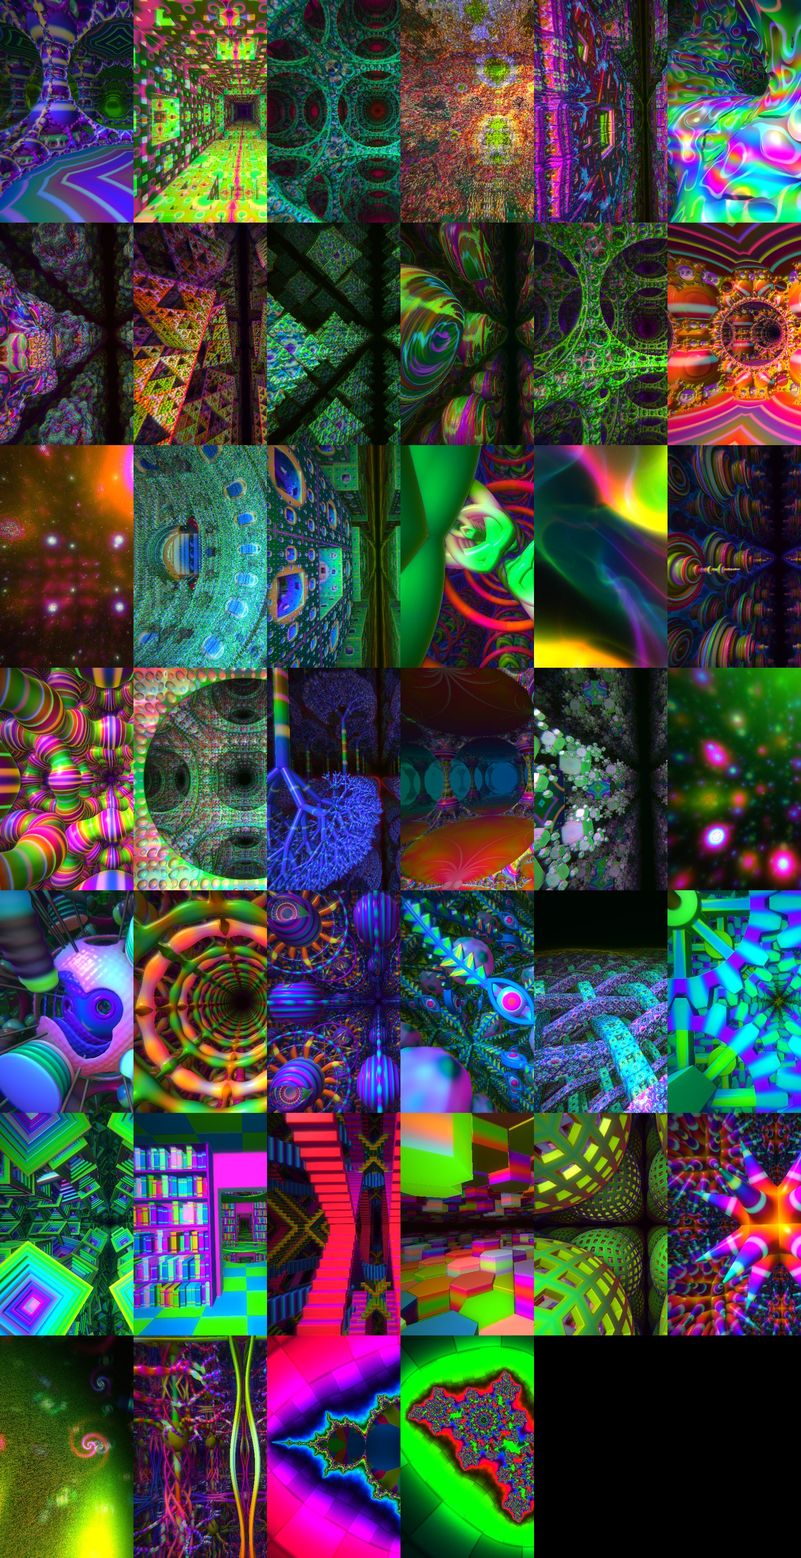
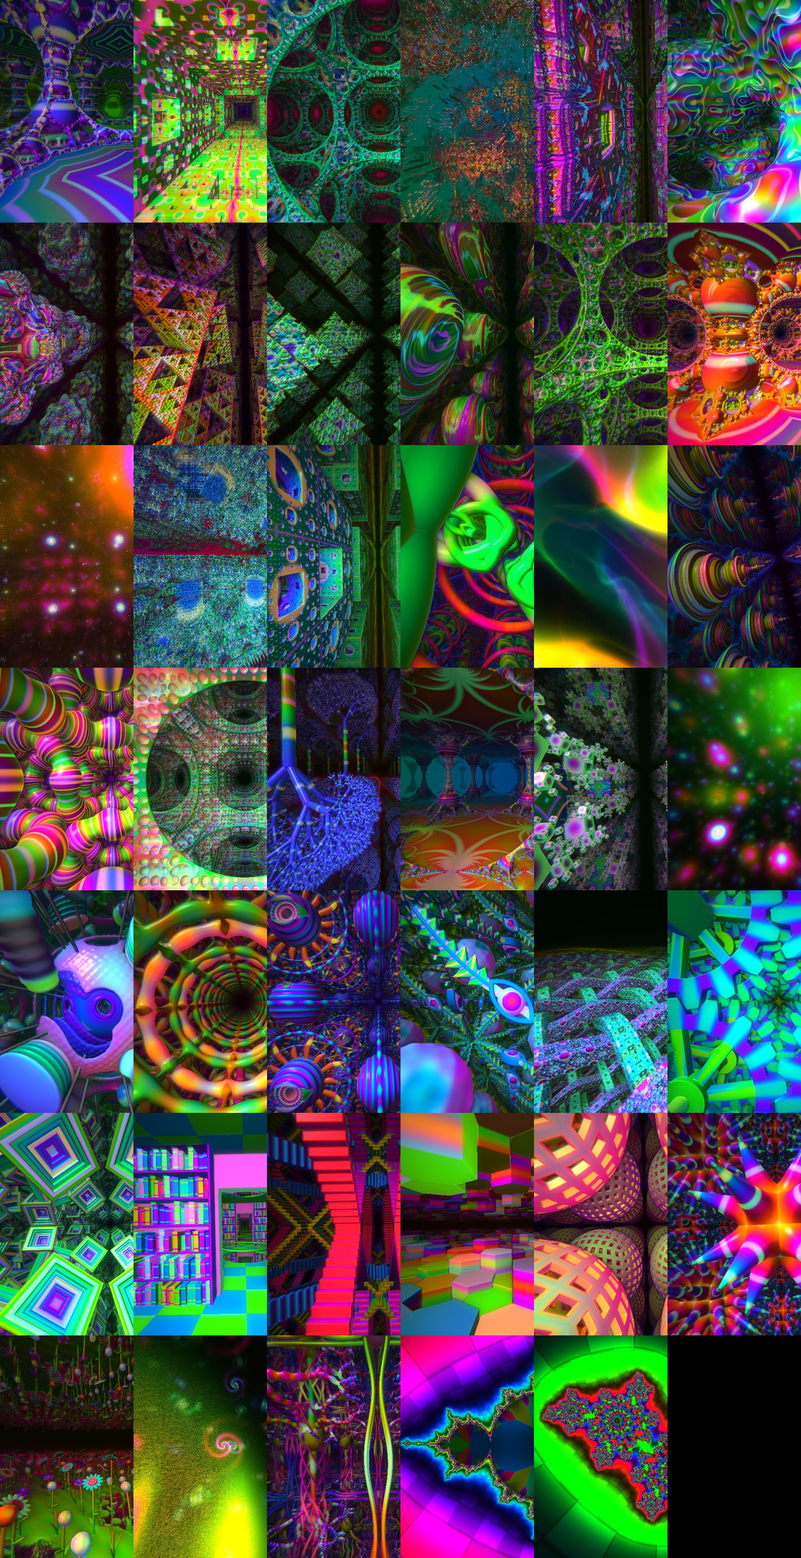
A world, Meadow: a field of flowers in a breeze
Sunflowers, daisies, roses, tulips, round heads and grass, one to a
six-sided cell, with the same field overhead. The breeze is the turning
clock; the morph opens and closes the petals.

Claude-Session: https://claude.ai/code/session_01P6VPR7K8HbtJTsW3ebQojf

diff --git a/js/worlds.js b/js/worlds.js
@@ -1406,6 +1406,132 @@ export const WORLDS=[
   x=tile(x,4);y=tile(y,4);z=tile(z,4);
   return .8*Math.min(C(x,y,z,.8,2,.95+.4*m,.15),C(Math.abs(x)-2,Math.abs(y)-2,Math.abs(z)-2,.45,1,.75-.3*m,.19));
  }},
+/* A meadow: flowers standing in a field, one to a six-sided cell as the Causeway's columns are, and the same field
+   again overhead, hanging down, so the world repeats upward as every world must. Each cell's whole number chooses
+   what grows there: a sunflower, a daisy, a rose, a tulip, a ball of small flowers, or a tuft of grass, with its own
+   height and its own way of facing. A flower is a stem that bends, two leaves, and a head set on the stem's top with
+   its own axis (u): petals are flattened balls set round that axis, found by folding the angle into one petal's
+   share. The breeze is the turning clock (uMc.x), which only runs forward: a wave of leaning passes over the field,
+   8 to one turn of the clock so that it looks the same after W_TURN, and whole waves to the period. The morph opens
+   and closes the petals. Nothing of a flower comes nearer than 0.03 to its cell's wall, so the distance is held to
+   the seven cells round a place; above the tallest flower it is the height above that. */
+{id:"meadow",name:"Meadow",hue:.3,fog:.085,maxd:26,speed:.9,start:[.5,-1.25,0],
+ period:function(){return [8,7.2,6.9282032]},
+ glsl:[
+ "float mo(float x,float y){return floor(mod(x+0.5,y));}",
+ "vec4 flO;float flD;",
+ "float flE(vec3 p,vec3 r){float k0=length(p/r),k1=length(p/(r*r));return k0*(k0-1.0)/(k1+1e-5);}", /* a flattened ball with half-widths r */
+ "float flP(float rr,float ang,float ax,float n,float cr,float tl,vec3 r){", /* n petals round the axis: their middles cr out, tipped up by tl */
+ "  float sg=6.2831853/n;float a=mod(ang+0.5*sg,sg)-0.5*sg;float x=rr*cos(a)-cr,cs=cos(tl),sn=sin(tl);",
+ "  return flE(vec3(cs*x+sn*ax,cs*ax-sn*x,rr*sin(a)),r);",
+ "}",
+ "void flS(float d,vec4 o){if(d<flD){flD=d;flO=o;}}",
+ "void flC(vec2 l,vec2 c,float t){",
+ "  float n=mo(floor(2.0*c.x+0.5),16.0)+16.0*mo(floor(c.y*1.1547005+0.5),8.0);float h=mo(n*(n+3.0),61.0);float k=mo(h,6.0);",
+ "  float hh=0.75+0.011*h+(k<0.5?0.45:0.0);if(k>4.5)hh*=0.5;",
+ "  float ph=8.0*uMc.x+0.7853982*c.x+0.9068997*c.y;",
+ "  vec2 sw=hh*vec2(0.075*sin(ph)+0.02*sin(2.0*ph+0.7*h),0.045*cos(ph+0.5*h));",
+ "  float f=clamp(t/hh,0.0,1.0);vec2 sl=l-sw*f*f;float hv=h/61.0;",
+ "  flS(max(length(sl)-0.022,t-hh),vec4(f,0.0,0.0,0.42+0.05*f));", /* the stem */
+ "  if(k>4.5){", /* grass: three blades leaning out from the foot */
+ "    for(int i=0;i<3;i++){",
+ "      float ga=2.1*h+2.0943951*float(i);float gh=hh*(0.75+0.2*float(i));vec2 gt=0.2*vec2(cos(ga),sin(ga))+sw;",
+ "      float gf=clamp(t/gh,0.0,1.0);flS(max(length(l-gt*gf*gf)-0.02*(1.15-gf),t-gh),vec4(gf,0.0,0.0,0.38+0.08*gf));",
+ "    }",
+ "    return;",
+ "  }",
+ "  float la=1.7*h;vec2 ld=vec2(cos(la),sin(la));float lu=dot(sl,ld),lv=dot(sl,vec2(-ld.y,ld.x));", /* two leaves, one each side */
+ "  flS(flE(vec3(lu-0.11,t-0.42*hh-0.5*(lu-0.11),lv),vec3(0.1,0.014,0.042)),vec4(0.5,0.0,0.0,0.4));",
+ "  flS(flE(vec3(-lu-0.1,t-0.24*hh-0.5*(-lu-0.1),lv),vec3(0.09,0.014,0.04)),vec4(0.5,0.0,0.0,0.4));",
+ "  vec3 q=vec3(l.x-sw.x,t-hh,l.y-sw.y);float ql=length(q);",
+ "  if(ql>0.5){flS(ql-0.36,vec4(0.0,0.0,0.0,0.4));return;}", /* far from the head: its ball will do */
+ "  vec2 a2=(k<1.5?0.75:0.22)*vec2(cos(1.3*h),sin(1.3*h))+2.5*sw/hh;vec3 u=normalize(vec3(a2.x,1.0,a2.y));",
+ "  vec3 e1=normalize(vec3(u.y,-u.x,0.0));vec3 e2=cross(u,e1);",
+ "  float ax=dot(q,u);vec2 rv=vec2(dot(q,e1),dot(q,e2));float rr=length(rv),ang=atan(rv.y,rv.x)+hv;float op=0.3*uM;",
+ "  if(k<0.5){", /* sunflower: a wide disc of seeds and thirteen petals */
+ "    vec2 w=vec2(rr-0.115,abs(ax)-0.03);flS(min(max(w.x,w.y),0.0)+length(max(w,0.0))-0.012,vec4(0.5+0.5*cos(90.0*rr),0.3,0.5,0.66));",
+ "    flS(flP(rr,ang,ax,13.0,0.2,0.15-op,vec3(0.085,0.013,0.036)),vec4(2.0*rr,0.0,0.0,0.1+0.1*hv));",
+ "  }else if(k<1.5){", /* daisy: a small middle and nine petals */
+ "    vec2 w=vec2(rr-0.05,abs(ax)-0.022);flS(min(max(w.x,w.y),0.0)+length(max(w,0.0))-0.01,vec4(0.5,0.0,0.0,0.14));",
+ "    flS(flP(rr,ang,ax,9.0,0.115,0.2-op,vec3(0.07,0.011,0.03)),vec4(3.0*rr,0.0,0.0,0.86+0.1*hv));",
+ "  }else if(k<2.5){", /* rose: a bud wound in a spiral, and two rings of five petals cupped round it */
+ "    flS(length(q-u*0.04)-0.08+0.01*sin(2.0*ang+34.0*ax)*min(rr*14.0,1.0),vec4(0.5+0.5*sin(2.0*ang+34.0*ax),0.0,0.0,0.98+0.06*hv));",
+ "    flS(flP(rr,ang,ax,5.0,0.085,0.95-op,vec3(0.075,0.014,0.05)),vec4(3.0*rr,0.0,0.0,1.02+0.06*hv));",
+ "    flS(flP(rr,ang+0.6283185,ax+0.02,5.0,0.11,0.5-op,vec3(0.08,0.013,0.055)),vec4(3.0*rr,0.0,0.0,1.06+0.06*hv));",
+ "  }else if(k<3.5){", /* tulip: an egg open at the top, in three lobes */
+ "    float eg=length(vec2(rr,(ax-0.1)*0.62))-0.085-0.008*cos(3.0*ang)*min(rr*14.0,1.0);",
+ "    flS(max(eg,0.065-0.04*uM-length(q-u*0.215)),vec4(4.0*ax,0.0,0.0,0.72+0.3*hv));",
+ "  }else{", /* a ball of small flowers */
+ "    vec3 b=q-u*0.07;flS(0.6*(length(b)-0.125-0.016*sin(26.0*b.x)*sin(26.0*b.y)*sin(26.0*b.z)),vec4(0.5+0.5*sin(26.0*b.x)*sin(26.0*b.y)*sin(26.0*b.z),0.0,0.0,0.56+0.1*hv));",
+ "  }",
+ "}",
+ "float map(vec3 p){",
+ "  float yq=mod(p.y+3.6,7.2)-3.6;float t=3.6-abs(yq);",
+ "  if(t>3.1){orb=vec4(0.0,0.0,0.0,0.4);return 0.8*(t-2.1);}", /* well above the tallest flower */
+ "  vec2 pz=yq<0.0?p.xz:p.xz+vec2(0.5,0.0);", /* the field overhead is set half a step along, so that it is not the lower one's mirror image */
+ "  vec2 s=vec2(1.0,1.7320508);vec2 a=mod(pz,s)-0.5*s;vec2 b=mod(pz-0.5*s,s)-0.5*s;",
+ "  vec2 l=dot(a,a)<dot(b,b)?a:b;vec2 c=pz-l;",
+ "  flD=t-0.05*sin(0.7853982*pz.x)*sin(0.9068997*pz.y)-0.012*sin(7.0685835*pz.x)*sin(7.2551975*pz.y);flO=vec4(0.3+0.12*sin(7.0685835*pz.x)*sin(7.2551975*pz.y),0.0,0.0,0.46);", /* the ground, with small bumps */
+ "  flC(l,c,t);",
+ "  flC(l-vec2(1.0,0.0),c+vec2(1.0,0.0),t);flC(l+vec2(1.0,0.0),c-vec2(1.0,0.0),t);",
+ "  flC(l-vec2(0.5,0.8660254),c+vec2(0.5,0.8660254),t);flC(l+vec2(0.5,0.8660254),c-vec2(0.5,0.8660254),t);",
+ "  flC(l-vec2(0.5,-0.8660254),c+vec2(0.5,-0.8660254),t);flC(l+vec2(0.5,-0.8660254),c-vec2(0.5,-0.8660254),t);",
+ "  vec2 al=abs(l);",
+ "  orb=flO;return 0.8*max(min(flD,1.0-max(al.x,0.5*al.x+0.8660254*al.y)),t-2.1);",
+ "}"],
+ de:function(x,y,z,m){
+  function mo(v,k){return Math.floor(md(v+.5,k))}
+  function E(px,py,pz,rx,ry,rz){var k0=Math.hypot(px/rx,py/ry,pz/rz),k1=Math.hypot(px/(rx*rx),py/(ry*ry),pz/(rz*rz));return k0*(k0-1)/(k1+1e-5)}
+  function P(rr,ang,ax,n,cr,tl,rx,ry,rz){var sg=6.2831853/n,a=md(ang+.5*sg,sg)-.5*sg,X=rr*Math.cos(a)-cr,cs=Math.cos(tl),sn=Math.sin(tl);return E(cs*X+sn*ax,cs*ax-sn*X,rr*Math.sin(a),rx,ry,rz)}
+  var yq=md(y+3.6,7.2)-3.6,t=3.6-Math.abs(yq),s1=1.7320508,d,i,j;
+  if(t>3.1)return .8*(t-2.1);
+  if(!(yq<0))x+=.5;
+  var ax0=md(x,1)-.5,az=md(z,s1)-.5*s1,bx=md(x-.5,1)-.5,bz=md(z-.5*s1,s1)-.5*s1,lx0=ax0,lz0=az;
+  if(!(ax0*ax0+az*az<bx*bx+bz*bz)){lx0=bx;lz0=bz}
+  var cx0=x-lx0,cz0=z-lz0,O=[[0,0],[1,0],[-1,0],[.5,.8660254],[-.5,-.8660254],[.5,-.8660254],[-.5,.8660254]];
+  d=t-.05*Math.sin(.7853982*x)*Math.sin(.9068997*z)-.012*Math.sin(7.0685835*x)*Math.sin(7.2551975*z);
+  for(i=0;i<7;i++){
+    var cx=cx0+O[i][0],cz=cz0+O[i][1],lx=lx0-O[i][0],lz=lz0-O[i][1];
+    var n=mo(Math.floor(2*cx+.5),16)+16*mo(Math.floor(cz*1.1547005+.5),8),h=mo(n*(n+3),61),k=mo(h,6);
+    var hh=.75+.011*h+(k<.5?.45:0);if(k>4.5)hh*=.5;
+    var ph=8*mc[0]+.7853982*cx+.9068997*cz;
+    var swx=hh*(.075*Math.sin(ph)+.02*Math.sin(2*ph+.7*h)),swz=hh*.045*Math.cos(ph+.5*h);
+    var f=Math.min(Math.max(t/hh,0),1),slx=lx-swx*f*f,slz=lz-swz*f*f,hv=h/61;
+    d=Math.min(d,Math.max(Math.hypot(slx,slz)-.022,t-hh));
+    if(k>4.5){
+      for(j=0;j<3;j++){
+        var ga=2.1*h+2.0943951*j,gh=hh*(.75+.2*j),gx=.2*Math.cos(ga)+swx,gz=.2*Math.sin(ga)+swz,gf=Math.min(Math.max(t/gh,0),1);
+        d=Math.min(d,Math.max(Math.hypot(lx-gx*gf*gf,lz-gz*gf*gf)-.02*(1.15-gf),t-gh));
+      }
+      continue;
+    }
+    var la=1.7*h,ldx=Math.cos(la),ldz=Math.sin(la),lu=slx*ldx+slz*ldz,lv=-slx*ldz+slz*ldx;
+    d=Math.min(d,E(lu-.11,t-.42*hh-.5*(lu-.11),lv,.1,.014,.042),E(-lu-.1,t-.24*hh-.5*(-lu-.1),lv,.09,.014,.04));
+    var qx=lx-swx,qy=t-hh,qz=lz-swz,ql=Math.hypot(qx,qy,qz);
+    if(ql>.5){d=Math.min(d,ql-.36);continue;}
+    var tk=k<1.5?.75:.22,ux=tk*Math.cos(1.3*h)+2.5*swx/hh,uz=tk*Math.sin(1.3*h)+2.5*swz/hh,ul=Math.hypot(ux,1,uz),uy=1/ul;ux/=ul;uz/=ul;
+    var el=Math.hypot(uy,ux),e1x=uy/el,e1y=-ux/el,e2x=-uz*e1y,e2y=uz*e1x,e2z=ux*e1y-uy*e1x; /* e1 has no z; e2 is u cross e1 */
+    var ax=qx*ux+qy*uy+qz*uz,rx=qx*e1x+qy*e1y,ry=qx*e2x+qy*e2y+qz*e2z,rr=Math.hypot(rx,ry),ang=Math.atan2(ry,rx)+hv,op=.3*m,wx,wy,v;
+    if(k<.5){
+      wx=rr-.115;wy=Math.abs(ax)-.03;
+      d=Math.min(d,Math.min(Math.max(wx,wy),0)+Math.hypot(Math.max(wx,0),Math.max(wy,0))-.012,P(rr,ang,ax,13,.2,.15-op,.085,.013,.036));
+    }else if(k<1.5){
+      wx=rr-.05;wy=Math.abs(ax)-.022;
+      d=Math.min(d,Math.min(Math.max(wx,wy),0)+Math.hypot(Math.max(wx,0),Math.max(wy,0))-.01,P(rr,ang,ax,9,.115,.2-op,.07,.011,.03));
+    }else if(k<2.5){
+      d=Math.min(d,Math.hypot(qx-ux*.04,qy-uy*.04,qz-uz*.04)-.08+.01*Math.sin(2*ang+34*ax)*Math.min(rr*14,1),
+        P(rr,ang,ax,5,.085,.95-op,.075,.014,.05),P(rr,ang+.6283185,ax+.02,5,.11,.5-op,.08,.013,.055));
+    }else if(k<3.5){
+      v=Math.hypot(rr,(ax-.1)*.62)-.085-.008*Math.cos(3*ang)*Math.min(rr*14,1);
+      d=Math.min(d,Math.max(v,.065-.04*m-Math.hypot(qx-ux*.215,qy-uy*.215,qz-uz*.215)));
+    }else{
+      var b0=qx-ux*.07,b1=qy-uy*.07,b2=qz-uz*.07;
+      d=Math.min(d,.6*(Math.hypot(b0,b1,b2)-.125-.016*Math.sin(26*b0)*Math.sin(26*b1)*Math.sin(26*b2)));
+    }
+  }
+  var ux2=Math.abs(lx0),uz2=Math.abs(lz0);
+  return .8*Math.max(Math.min(d,1-Math.max(ux2,.5*ux2+.8660254*uz2)),t-2.1);
+ }},
 /* Galaxies in the dark: one to a cell at two sizes, each a flat disc lying its own way with a bright middle and two
    arms that wind outward, turning slowly, some one way and some the other. The morph winds the arms tighter. The larger ones are drawn tighter about their middles, so that the camera is seldom inside one,
    where all there is to see is its glow. A cloud world, so JavaScript has no copy of it. */

diff --git a/index.html b/index.html
@@ -288,7 +288,7 @@
 <div id="start">
   <div class="card">
     <h1>Mirrorfold</h1>
-    <p>Forty endless worlds to fly through. They breathe, recolour and pulse with the music, and you can never hit a wall. Turn on Journey to sit back and be flown.</p>
+    <p>Forty-one endless worlds to fly through. They breathe, recolour and pulse with the music, and you can never hit a wall. Turn on Journey to sit back and be flown.</p>
     <p>Each world hides a glowing orb. Fly into it. The first six you find each unlock a new palette. The Orbs button hides them.</p>
     <p id="how"></p>
     <p>For Apple Music or any other app: enter silent, start your song there, then set Music to Tap tempo and tap along.</p>

diff --git a/README.md b/README.md
@@ -13,7 +13,7 @@
 >
 > Mirrorfold is designed to avoid strobing, but it has **not** been tested or certified against any photosensitivity standard, and no setting makes it safe for everyone. It is not a medical device and nothing here is medical advice. It is provided "as is", without warranty of any kind, and you use it entirely at your own risk; see the [licence](LICENSE).
 
-Fly through endless fractal worlds in your browser. Forty worlds, kaleidoscope mirrors, feedback trails, filters, overlays, and an autopilot that reacts to music.
+Fly through endless fractal worlds in your browser. Forty-one worlds, kaleidoscope mirrors, feedback trails, filters, overlays, and an autopilot that reacts to music.
 
 This project is inspired in part by the music visualizers from decades past… from Winamp plugins to the standalone visualizer MilkDrop. This has a familiar feel when in Journey mode (an autopilot that flies through the procedurally generated 3D worlds) while listening to music. 
 
@@ -31,7 +31,7 @@ Relax, unwind, and enjoy!
 
 **Try it: https://gcrabtree.github.io/MirrorFold/**
 
-![Contact sheet of all 40 worlds](docs/worlds.jpg)
+![Contact sheet of all 41 worlds](docs/worlds.jpg)
 
 The app is one page, one stylesheet and a folder of JavaScript modules. There is no build step and no JavaScript dependency. It uses WebGL 1, so it runs in any current browser on a phone or a desktop.
 
@@ -60,7 +60,7 @@ It is a small download: about 435 KB to start (the page, the stylesheet and the 
 
 ## What it does
 
-- **40 worlds.** Thirty-four are solid surfaces: twenty-two fractals, and twelve that are things and places (Cell, the inside of a living cell; Biomech, Seer, Net and Fabric; and Clockwork, Library, Stairs, Causeway, Dyson, Ferro and Cortex: see below); four (Nebula, Aurora, Lanterns and Galaxies) are glowing volumes; two (Mandelbrot zoom and Julia zoom) are flat pictures seen from above that zoom in and out. Every world you fly through repeats forever in all directions.
+- **41 worlds.** Thirty-five are solid surfaces: twenty-two fractals, and thirteen that are things and places (Cell, the inside of a living cell; Biomech, Seer, Net and Fabric; and Clockwork, Library, Stairs, Causeway, Dyson, Ferro, Meadow and Cortex: see below); four (Nebula, Aurora, Lanterns and Galaxies) are glowing volumes; two (Mandelbrot zoom and Julia zoom) are flat pictures seen from above that zoom in and out. Every world you fly through repeats forever in all directions.
 - **Nine worlds that are things and places**, with the **Curiosities** journey template, which flies through eight of them in turn:
   - **Clockwork**: layers of gears in mesh, each turning against its neighbours on axles that run through every layer. They turn steadily while Morph is on, faster when the middle of the music is loud, and never backward. Between every four axles a shaft is open through all the layers, to fly down.
   - **Library**: a library without end, after Borges. Square rooms one above another, an open shaft through the middle of every floor, a doorway in every wall, and every wall shelved on both sides with books, each of its own height, depth and colour. The morph opens the doorways and shafts wider and slides every book out from the wall and back, so with music the shelves move.
@@ -71,6 +71,7 @@ It is a small download: about 435 KB to start (the page, the stylesheet and the 
   - **Bismuth**: hopper crystals, whose faces are sunk in square steps to a small cube at the heart, with smaller crystals on their corners and smaller ones on theirs, three sizes in all.
   - **Cortex**: nerve cells in columns, joined into a net that is never still. Each has a body, trees of beaded dendrites that bend, lean and twist, each at its own slow pace, a trunk wound with fibres that runs up to the cell above, and a tuft at the top; small star cells sit between. Bands of colour run out along the dendrites like signals. It is heavy work for the graphics chip, so Journey never chooses it by itself: pick it by hand, or tick it in a template of your own.
   - **Galaxies**: a fourth glowing volume. Spiral galaxies at two sizes, each lying its own way and turning slowly; the morph winds their arms tighter.
+- **Meadow**, a field of flowers in a breeze: sunflowers, daisies, roses, tulips, round heads of small flowers and tufts of grass, each of its own height and facing its own way, with the same field again overhead, hanging down, as in a hall. A wave of leaning passes over the field; it moves while Morph is on, faster when the middle of the music is loud. The morph opens and closes the petals. The flowers take the palette's colours, like everything else, so a sunflower is yellow only in a palette that has yellow there.
 - **Biomech**, a world in homage to the biomechanical paintings of H. R. Giger: an endless hall of tunnels whose walls are rib cages, with spines where the tunnels meet, tendons between ribs and spines, and ribbed hoses running alongside. The cages breathe with the morph. Nothing of his is copied; it is built from the kinds of thing he painted. With it come three near-grey palettes that are open from the start (**Gunmetal**, **Tallow**, **Verdigris**), the **ribbed** surface, the **Airbrush** filter and the **Biomech** journey template, all of which work in every other world too.
 - **Zooms a trillion times deep.** The two zoom worlds magnify the Mandelbrot set and Julia sets up to about a trillion times, on points where there is always something to see. See [The zoom worlds](#the-zoom-worlds).
 - **Free flight** in any direction, with roll. Your speed drops as you approach a surface, so you can never hit a wall.
@@ -104,7 +105,7 @@ It is a small download: about 435 KB to start (the page, the stylesheet and the 
 - **A light to throw**, which bounces off the surfaces of the world.
 - **VR viewer** mode for a phone in a Cardboard-style holder: a picture for each eye, and you look around by turning your head.
 
-The worlds, in menu order: Lattice, Sponge, Halls, Box, Citadel, Coral, Bulbs, Shards, Crystal, Julia, Web, Temple, Nebula, Fortress, Hive, Gates, Aurora, Mandelbrot, Tangle, Foam, Thicket, Kleinian, Pyrite, Lanterns, Cell, Biomech, Seer, Net, Fabric, Clockwork, Bismuth, Library, Stairs, Causeway, Dyson, Ferro, Galaxies, Cortex, Mandelbrot zoom, Julia zoom.
+The worlds, in menu order: Lattice, Sponge, Halls, Box, Citadel, Coral, Bulbs, Shards, Crystal, Julia, Web, Temple, Nebula, Fortress, Hive, Gates, Aurora, Mandelbrot, Tangle, Foam, Thicket, Kleinian, Pyrite, Lanterns, Cell, Biomech, Seer, Net, Fabric, Clockwork, Bismuth, Library, Stairs, Causeway, Dyson, Ferro, Meadow, Galaxies, Cortex, Mandelbrot zoom, Julia zoom.
 
 Six of the fractals: **Tangle** is pipes that never end, **Foam** is a frame pitted with round holes, **Thicket** is branching trees, **Kleinian** is a hall of lace columns between a floor and a ceiling, **Pyrite** is cubes with smaller cubes on their corners, and **Lanterns** is soft lights hanging in the dark.
 
@@ -579,7 +580,7 @@ Sound goes through one Web Audio analyser. Three bands each keep a level and a s
 | `js/` | The app, as about 80 modules; the architecture document lists what each holds |
 | `docs/ARCHITECTURE.md` | How it works, in detail |
 | `docs/TV.md` | How to show Mirrorfold on a TV by screen mirroring |
-| `docs/worlds.jpg` | Contact sheet of all 40 worlds |
+| `docs/worlds.jpg` | Contact sheet of all 41 worlds |
 | `thumbs/` | The choosers' small pictures, one for each built-in world, palette, motion, filter, overlay, mirror setting, FX setting and landscape |
 | `lang/` | The lessons' words, one flat file for each language (`en.json`) |
 | `voice/` | The lessons' voice: one sound file for each step, and `index.json`, which records the words each was made from |

diff --git a/CLAUDE.md b/CLAUDE.md
@@ -66,7 +66,7 @@ The Python tools need `google-chrome` or `chromium` on PATH, or a Chromium that 
 - **A strange doorway's two sides differ by a turn `T` that leaves the ring's facing as it is** (`doorLieTurn`), and the camera's directions are turned by it on going through. A new kind must keep that, or the ring, its clip plane and `doorCross` are wrong. After a mirrored one the camera is left-handed (`cam.hand` is -1): anything that works out the camera's right from up and forward must call `camSquare()`, and anything that turns the camera about one of its own axes must multiply the angle by `cam.hand`, as `turn` does.
 - **While a loop is flown (`lapOn()`, `js/lap.js`) the picture must be the same one lap later.** `lapClock` sets every clock and the sound from the lap's phase, and `frame()` skips `tickClock` and Journey. Anything new that changes the picture over time must take its time from `clock` or the sound from `fr` (then it comes round by itself), or be left out or stopped while `lapOn()`, as the orb, sprites, thrown light, friends, ribbons and doorways are. After a change that could matter, compare the picture one lap apart with frames of equal length; it should be identical.
 - **Lens blur moves the ray's start and aim in the scene shader (`uLens`)**, and Hold still averages the frames. The world beyond a doorway is given the same lens scaled by the doorway's `s`. Anything drawn in the scene shader from `ro` and `rd` is blurred with the rest; anything drawn from the pixel's place alone is not, and will look wrong with it.
-- **A guest's world and morph are the host's** (`togetherClock`), and a played flight's morph is the recording's (`flightClock`), because a place means the same thing only in the same shape. Anything new that moves geometry must come from the morph clock, or be sent and recorded too. The one exception is the turn of Clockwork's gears (`clock.turnT`, which only runs forward): it is neither sent nor recorded, and that is safe only because the gears leave the same space open at every angle.
+- **A guest's world and morph are the host's** (`togetherClock`), and a played flight's morph is the recording's (`flightClock`), because a place means the same thing only in the same shape. Anything new that moves geometry must come from the morph clock, or be sent and recorded too. The exceptions are the turn of Clockwork's gears and the Meadow's breeze (`clock.turnT`, which only runs forward): it is neither sent nor recorded. For the gears that is safe because they leave the same space open at every angle; in the Meadow a friend's marker or a played flight can pass through a leaning flower, which is accepted.
 - **A world takes the clocks only as `uM` and `uMc`** (`wTick` in `js/worlds.js`, the same four numbers to the chip and to `de`). A new number there must come round when its clock does (the morph's every 200 pi), and anything made from `clock.turnT` must look the same after a whole number of `W_TURN`, which is what a recorded loop moves it by.
 - **Packs never carry JavaScript.** Everything read from a pack, pasted text or `localStorage["mirrorfold-library"]` goes through `loadPack` and the cleaners. Do not add a field that is evaluated as script, used as HTML, or used as a URL. New numeric fields need a range in the cleaner and in `packs/README.md`.
 - **The gallery is the `packs/` folder, and merging into it is the review.** `tools/offer.mjs` and `.github/workflows/offer.yml` turn an issue from a stranger into a pull request. Keep the issue as data: nothing from it may reach a shell command, a file path or a workflow expression except the issue number and the file name `slug()` makes.

diff --git a/docs/ARCHITECTURE.md b/docs/ARCHITECTURE.md
@@ -10,7 +10,7 @@ Mirrorfold is a first-person fly-through of endless fractal worlds, rendered by 
 
 Features, in the order a user meets them:
 
-- **40 worlds.** 34 are surfaces found by sphere tracing a distance estimator; 4 (Nebula, Aurora, Lanterns, Galaxies) are volumetric; 2 (Mandelbrot zoom, Julia zoom) are flat pictures (section 6c).
+- **41 worlds.** 35 are surfaces found by sphere tracing a distance estimator; 4 (Nebula, Aurora, Lanterns, Galaxies) are volumetric; 2 (Mandelbrot zoom, Julia zoom) are flat pictures (section 6c).
 - **Free flight** with six degrees of freedom. Speed scales with distance to the nearest surface, so you cannot hit a wall.
 - **Kaleidoscope mirrors**: off, 3, 4, 6, 8 or 12 segments, applied to the ray direction.
 - **19 palettes** (8 available at once, 6 unlocked by finding orbs, and 3 near-greys that came with the Biomech world, Vision that came with Seer and Cobalt that came with Net, which are marked `open`, so they need no orb; `ORB_PALS` is the 6).
@@ -340,6 +340,7 @@ Two requirements matter more than anything else when adding or changing a world:
 | Ferro | Balls of spikes (not a fractal) | Mirror tile `P=4`. A ball of 0.8 at the cell's middle with a spike in each of 4 by 4 equal angles of each cube face, and one of 0.45 at the corners with 2 by 2; a spike is a cone with round ends from 0.12 inside the ball, joined to it by a smooth minimum of 0.12; factor 0.8 | 8 | the spikes' length: `0.95 + 0.4m`, and `0.75 - 0.3m` on the small balls |
 | Nebula | Volumetric Kaliset | `p = abs(p)/dot(p,p) - f`, 10 iterations, accumulating `|len - prevLen|`; cubed | 2 | `f = 0.55 + 0.03m` |
 | Aurora | Volumetric warped gyroid | Three octaves of `p += A*sin(p.yzx*F + t)`, then `exp(-k*|gyroid|)` ribbons | 2π | ribbon width |
+| Meadow | A field of flowers, and the same field overhead (not a fractal) | Height folded about the hall's middle (`t = 3.6 - |y|`); the upper field is set half a step along. Flowers 1 apart in the Causeway's honeycomb; a cell's number (`mo`, as there) gives the kind (sunflower, daisy, rose, tulip, ball, grass), the height and the facing. A flower is a bending stem (`length(l - sw f^2)`), two leaves and a head in its own frame (`u`, `e1`, `e2`); petals are flattened balls (`flE`) found by folding the angle round `u` into one petal's share (`flP`). The seven cells round a place are tried, then `0.8*max(min(d, 1 - hex), t - 2.1)`: nothing of a flower passes its cell's wall, and above the tallest the height is the distance | `[8, 7.2, 6.93]` | Petals open and close (`0.3m` on their tip). The breeze is not the morph: the lean is `sin(8*uMc.x + whole waves to the period)`, from the turning clock as Clockwork's gears are, so it comes round after `W_TURN` and is neither sent to a guest nor kept in a recorded flight (a friend's marker, or a played flight, can pass through a leaning flower) |
 | Galaxies | Volumetric spiral galaxies | One to a cell of 2 (mod 4) and one to a cell of 1 (mod 8), each off its cell's middle and turned two ways by a hash of the cell: `exp(-k r^2)*exp(-130z^2)*(0.18 + arm^3)` (`k` 36 for the larger, so the camera is seldom inside one, 20 for the smaller) with `arm = 0.5 + 0.5*cos(2*angle - (7 + 2m)*log(r) + 0.2*time)`, plus a bright middle; faded toward the cell's sides | 8 | how tightly the arms wind |
 | Lanterns | Volumetric lights | One soft light to a unit cell and one to a half cell, each off its cell's middle by a hash of the cell (mod 8) and swaying with the clock, faded toward the cell's sides so that none is cut; plus a faint gyroid haze | 8 | size of the larger lights |
 
